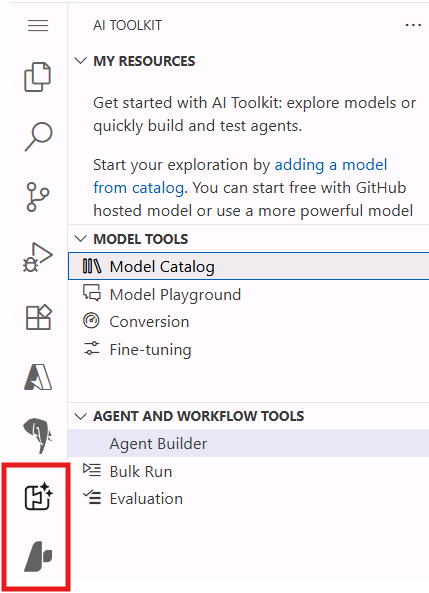
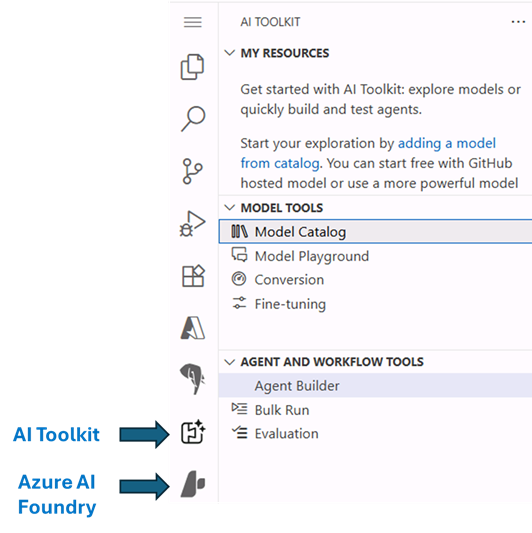
Finalizing get Started chapter

diff --git a/lab/instructions/01_Get_Started.md b/lab/instructions/01_Get_Started.md
@@ -56,9 +56,25 @@ If they are correctly installed, you should see their icons in the left sidebar 
 ![Installed extensions](../../img/installed_extensions.png)
 
 >![TIP]
-> If you don't see the icons, click on the ellipsis (...) at the bottom of the sidebar to se the full list of installed extensions. 
+> If you don't see the icons, click on the ellipsis (...) at the bottom of the sidebar to see the full list of installed extensions. 
+
+Now click on the Azure AI Foundry extension icon, and then click on **Set Default Project**.
+
+![Set Default Project](../../img/set_default_project.png)
+
+You'll be prompted with a popup to confirm with the Azure login. Click **Allow**.
+
+![Azure Login Popup](../../img/azure_login_popup.png)
+
+Next, you'll be redirected to a browser window to complete the login process. Enter the following credentials:
+    -  Email: +++@lab.CloudPortalCredential(User1).Username+++
+    -  Password: +++@lab.CloudPortalCredential(User1).Password+++
+
+Back in your Codespace, you'll be asked to select the Azure AI Foundry project to use. Select the only available option, which is the project pre-deployed for this workshop.
+
+![Select Project](../../img/select_project.png)
 
 ## Ready to start
 
-That covers the necessary setup and basics of Azure AI Foundry portal. We will now move forward to begin interacting with the models. 
-Click **Next** to proceed to the Text Generation section.
+That covers the necessary setup to work with the AI Toolkit in VScode and Azure AI Foundry hosted models. We will now move forward to begin exploring the Model Catalog and interacting with the models.
+Click **Next** to proceed to the following section of the lab.
